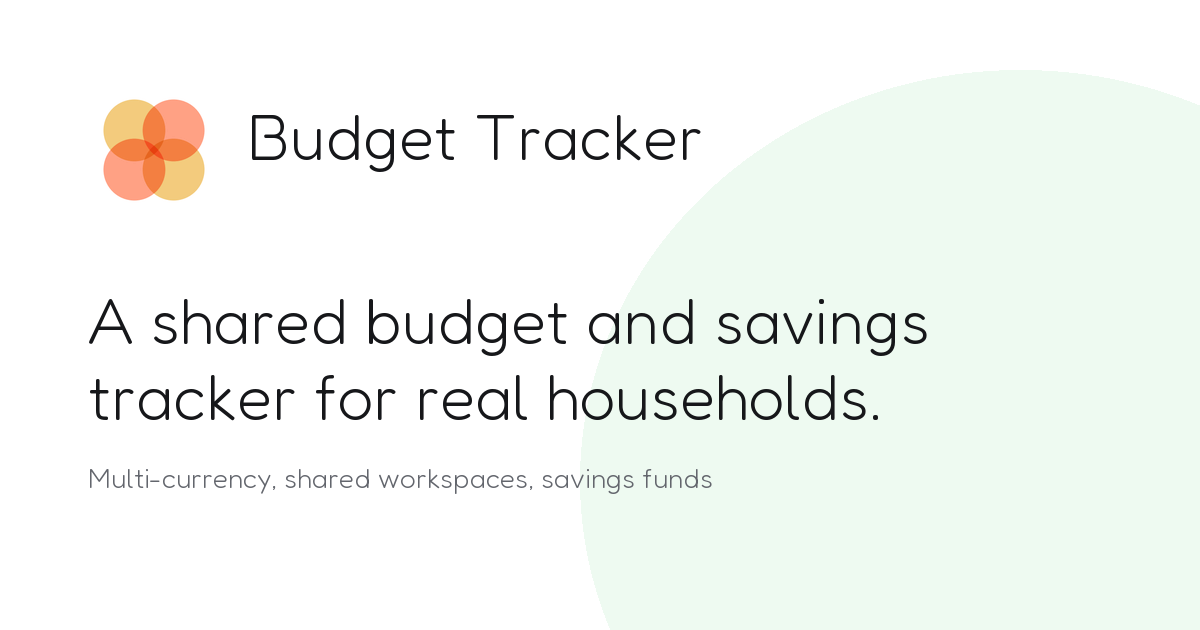
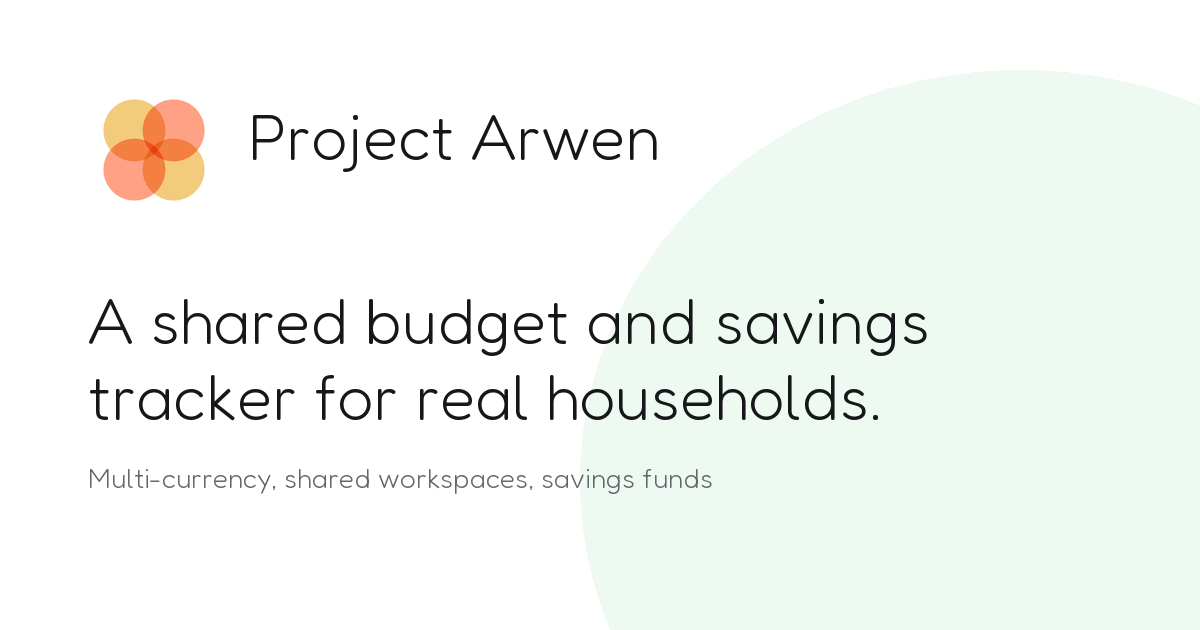
Rebrand page copy to Project Arwen, drop GitHub/source and portfolio framing
On-page product name is now "Project Arwen" throughout (nav, hero image
alt text, footer, page titles/meta, OG image, and the privacy/terms
copy). Repo, package, and docs still say budget-app-landing per the
user's own clarification -- only the visible site changes.

Also removes every GitHub/"View the code"/"Source" mention (Hero,
CtaBand, Footer) since the site no longer points at the repos, and
drops the footer's "Miguel Furtado, portfolio project" line in favor
of a plain "Project Arwen" copyright line. GITHUB_URL/GITHUB_REPOS and
the now-unused github-logo icon path are removed from the codebase.

Claude-Session: https://claude.ai/code/session_01HybNZemGcD7Xd26TFpDYbE

Changed region(s): [[0.2158, 0.181, 0.5858, 0.2714]]

diff --git a/src/lib/constants.ts b/src/lib/constants.ts
@@ -1,11 +1,4 @@
 export const WEB_APP_URL = 'https://budget-app-web-sjzr.onrender.com';
-export const GITHUB_URL = 'https://github.com/relense/budget-app-web';
-
-export const GITHUB_REPOS = [
-  { label: 'Web app', url: 'https://github.com/relense/budget-app-web' },
-  { label: 'API', url: 'https://github.com/relense/budget-app-api' },
-  { label: 'Mobile app', url: 'https://github.com/relense/budget-app-mobile' },
-];
 
 // Not published to the App Store / Play Store yet. Swap these for the real
 // store URLs once the mobile app ships, and flip GetTheApp.astro's disabled state.
